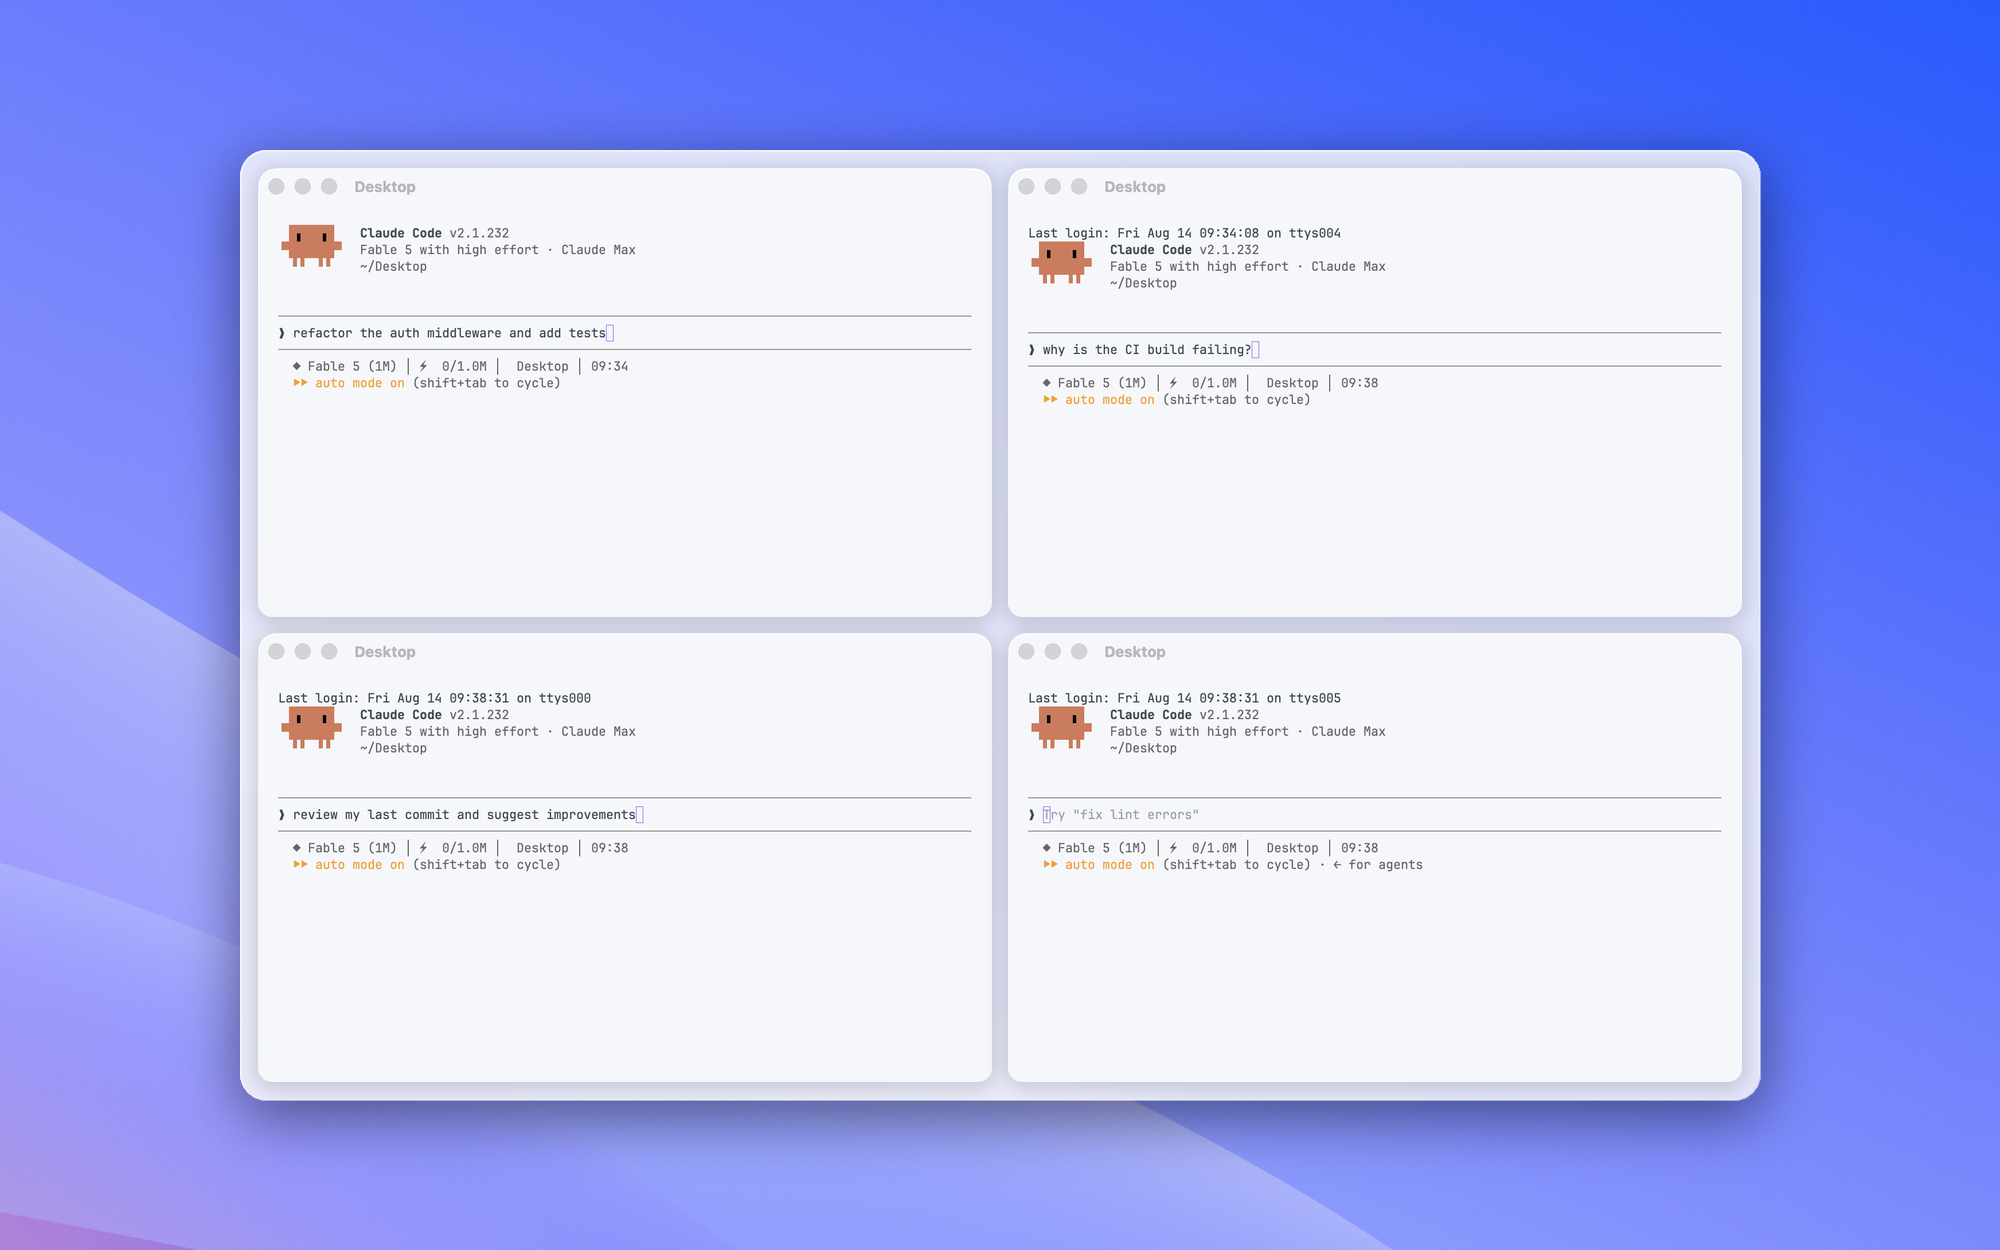
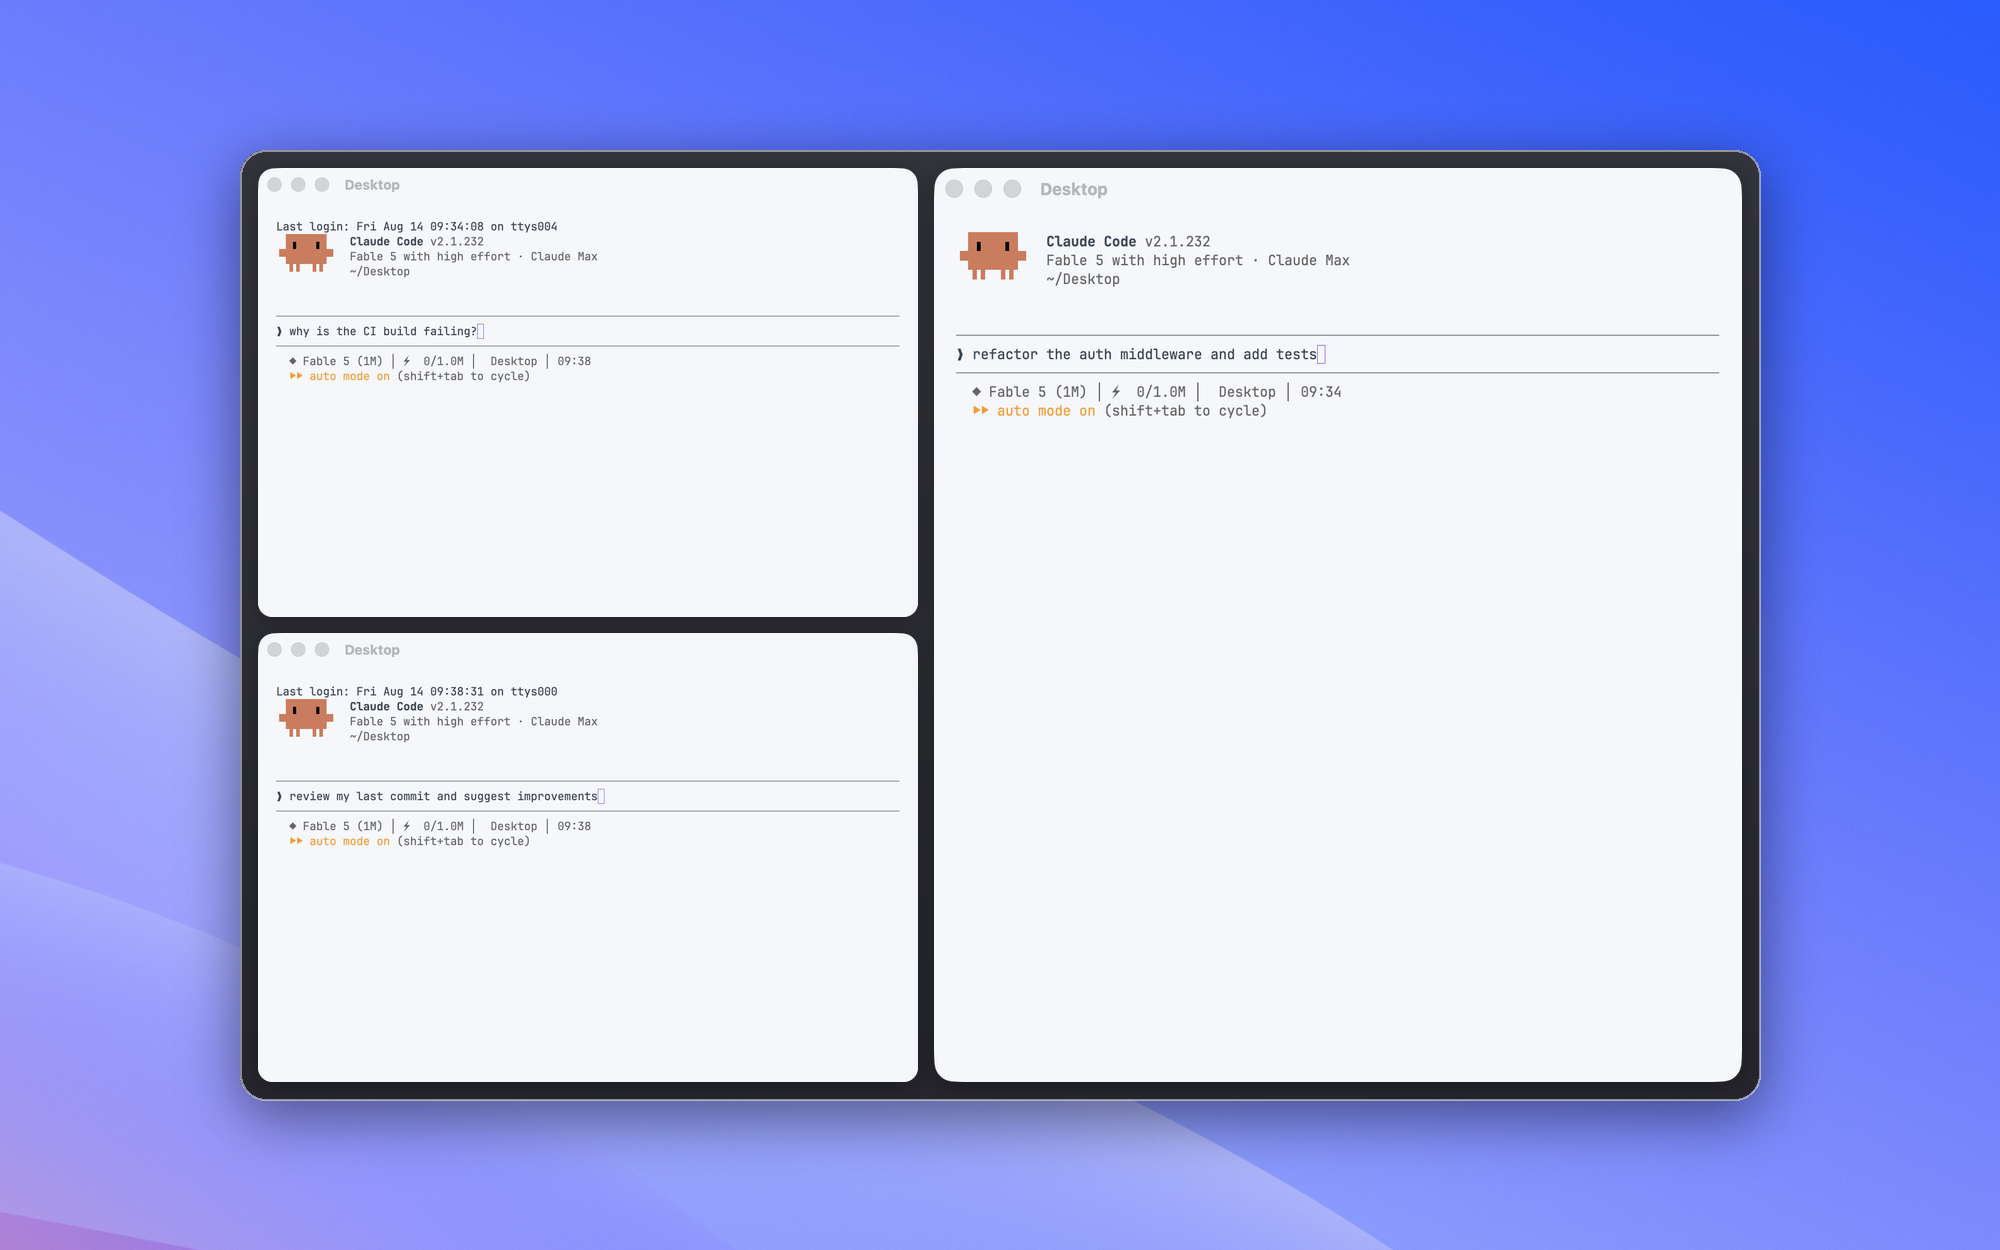
docs: dark-panel screenshots, 3-window close-up layout

Changed region(s): [[0.093, 0.0936, 0.899, 0.9048], [0.682, 0.6864, 0.713, 0.7176]]

diff --git a/scripts/store-screenshots/compose_final.py b/scripts/store-screenshots/compose_final.py
@@ -30,10 +30,14 @@ def canvas():
     return cover((2300, 0, 6016, 1500), W, H)
 
 def panel_base():
-    # 浅色磨砂面板: 模糊壁纸 + 高不透明白, 内部低对比
-    p = cover((2600, 200, 5600, 1300), PW, PH).filter(ImageFilter.GaussianBlur(30))
-    p.alpha_composite(Image.new("RGBA", (PW, PH), (248, 249, 251, 215)))
-    return p
+    # 深灰面板: 上浅下深微渐变, 白窗口高对比
+    p = Image.new("RGB", (PW, PH))
+    t_, b_ = (52, 52, 60), (38, 38, 45)
+    dd = ImageDraw.Draw(p)
+    for y in range(PH):
+        k = y / PH
+        dd.line([(0, y), (PW, y)], fill=tuple(int(a + (b - a) * k) for a, b in zip(t_, b_)))
+    return p.convert("RGBA")
 
 def place_panel(bg, p):
     sh = Image.new("RGBA", bg.size, (0, 0, 0, 0))
@@ -50,7 +54,7 @@ srcs = [Image.open(x).convert("RGBA") for x in wins]
 def soft_shadow(dst, x, y, w, h, r, blur=10, alpha=60, dy=4):
     # 面板内投影用浅色低 alpha, 避免触发校验器的强梯度阈值
     sh = Image.new("RGBA", dst.size, (0, 0, 0, 0))
-    ImageDraw.Draw(sh).rounded_rectangle([x, y + dy, x + w, y + h + dy], r, fill=(90, 95, 120, alpha))
+    ImageDraw.Draw(sh).rounded_rectangle([x, y + dy, x + w, y + h + dy], r, fill=(0, 0, 12, alpha))
     dst.alpha_composite(sh.filter(ImageFilter.GaussianBlur(blur)))
 
 def tile(src, w, h, r=12):
@@ -92,7 +96,7 @@ icon = Image.open("/Users/popo/Downloads/Code/gemini/bento-window/assets/extensi
 icon = icon.resize((ICON, ICON), Image.LANCZOS)
 ix, iy = 700, (PH - ICON) // 2 - 70
 sil = Image.new("RGBA", p.size, (0, 0, 0, 0))
-t2 = Image.new("RGBA", (ICON, ICON), (90, 95, 120, 70))
+t2 = Image.new("RGBA", (ICON, ICON), (0, 0, 12, 110))
 t2.putalpha(icon.split()[3].point(lambda a: int(a * 0.4)))
 sil.alpha_composite(t2, (ix, iy + 5))
 p.alpha_composite(sil.filter(ImageFilter.GaussianBlur(8)))
@@ -101,9 +105,9 @@ p.alpha_composite(icon, (ix, iy))
 cx, cy = ix + ICON // 2, iy + ICON + 60
 d = ImageDraw.Draw(p)
 pts = [(cx - 12, cy - 24), (cx + 12, cy), (cx - 12, cy + 24)]
-d.line(pts, fill=(140, 145, 165, 255), width=8, joint="curve")
+d.line(pts, fill=(235, 236, 242, 255), width=8, joint="curve")
 for pt in (pts[0], pts[2]):
-    d.ellipse([pt[0] - 4, pt[1] - 4, pt[0] + 4, pt[1] + 4], fill=(140, 145, 165, 255))
+    d.ellipse([pt[0] - 4, pt[1] - 4, pt[0] + 4, pt[1] + 4], fill=(235, 236, 242, 255))
 
 place_panel(bg, p)
 bg.convert("RGB").save("bento-store-hero.png")
@@ -112,13 +116,18 @@ bg.convert("RGB").save("bento-store-hero.png")
 bg = canvas()
 p = panel_base()
 M, g2 = 18, 16
-cw, ch = (PW - 2 * M - g2) // 2, (PH - 2 * M - g2) // 2
-for i, src in enumerate(srcs):
-    r_, c_ = divmod(i, 2)
-    x = M + c_ * (cw + g2)
-    y = M + r_ * (ch + g2)
-    soft_shadow(p, x, y, cw, ch, 14, blur=10, alpha=60, dy=4)
-    p.alpha_composite(tile(src, cw, ch, 14), (x, y))
+# 3 窗口布局: 左列上下两格 + 右侧一整高大格(列分割偏左, 让画面中心落在大格内)
+lw = 660
+rw = PW - 2 * M - g2 - lw
+lh = (PH - 2 * M - g2) // 2
+rh = PH - 2 * M
+for x, y, w, h, src in [
+    (M, M, lw, lh, srcs[1]),
+    (M, M + lh + g2, lw, lh, srcs[2]),
+    (M + lw + g2, M, rw, rh, srcs[0]),
+]:
+    soft_shadow(p, x, y, w, h, 14, blur=10, alpha=70, dy=4)
+    p.alpha_composite(tile(src, w, h, 14), (x, y))
 
 place_panel(bg, p)
 bg.convert("RGB").save("bento-store-1.png")
